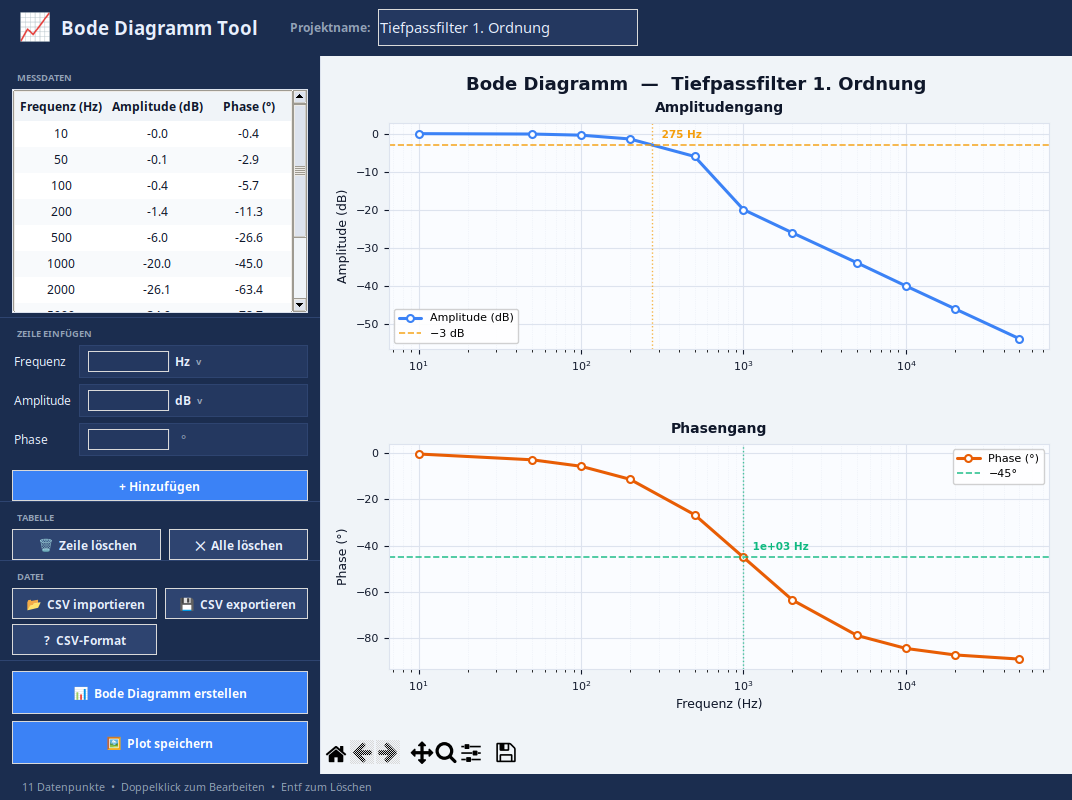
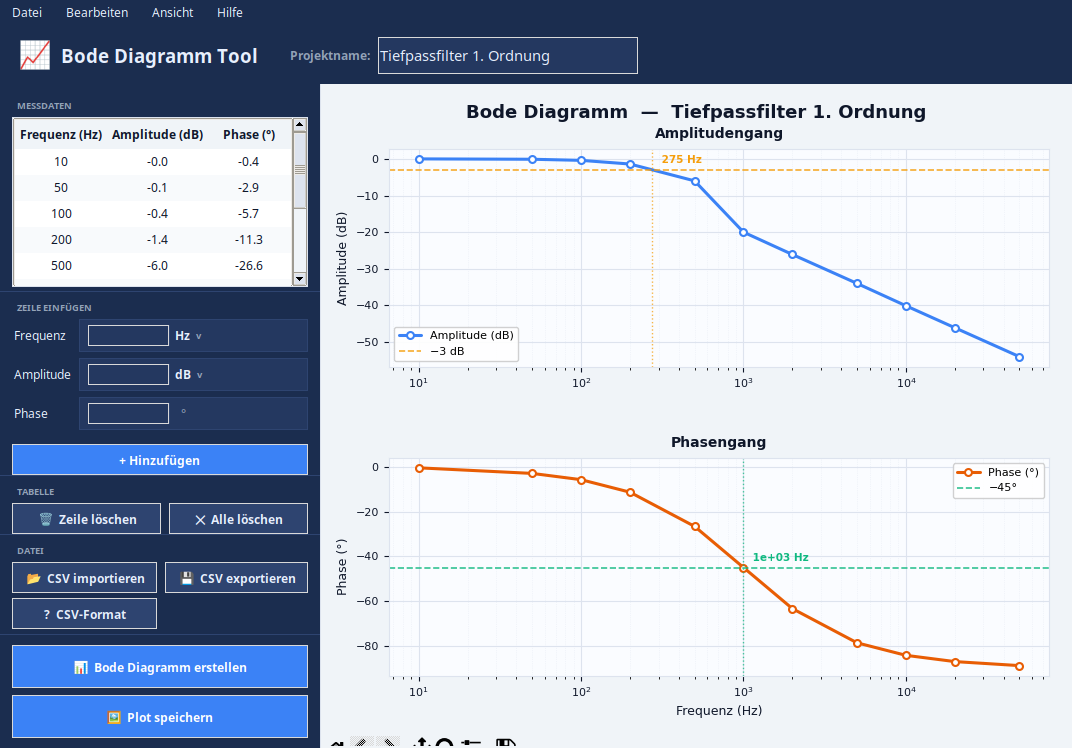
Update screenshot: 16:9 with full window and menu bar visible, remove csv_help screenshot

diff --git a/README.md b/README.md
@@ -8,13 +8,6 @@ Desktop-Anwendung zur Visualisierung von Frequenzgängen aus gemessenen Übertra
 
 ![Hauptfenster mit Bode-Diagramm](screenshots/main.png)
 
-<details>
-<summary>CSV-Format Anleitung</summary>
-
-![CSV-Format Anleitung](screenshots/csv_help.png)
-
-</details>
-
 ---
 
 ## Features
